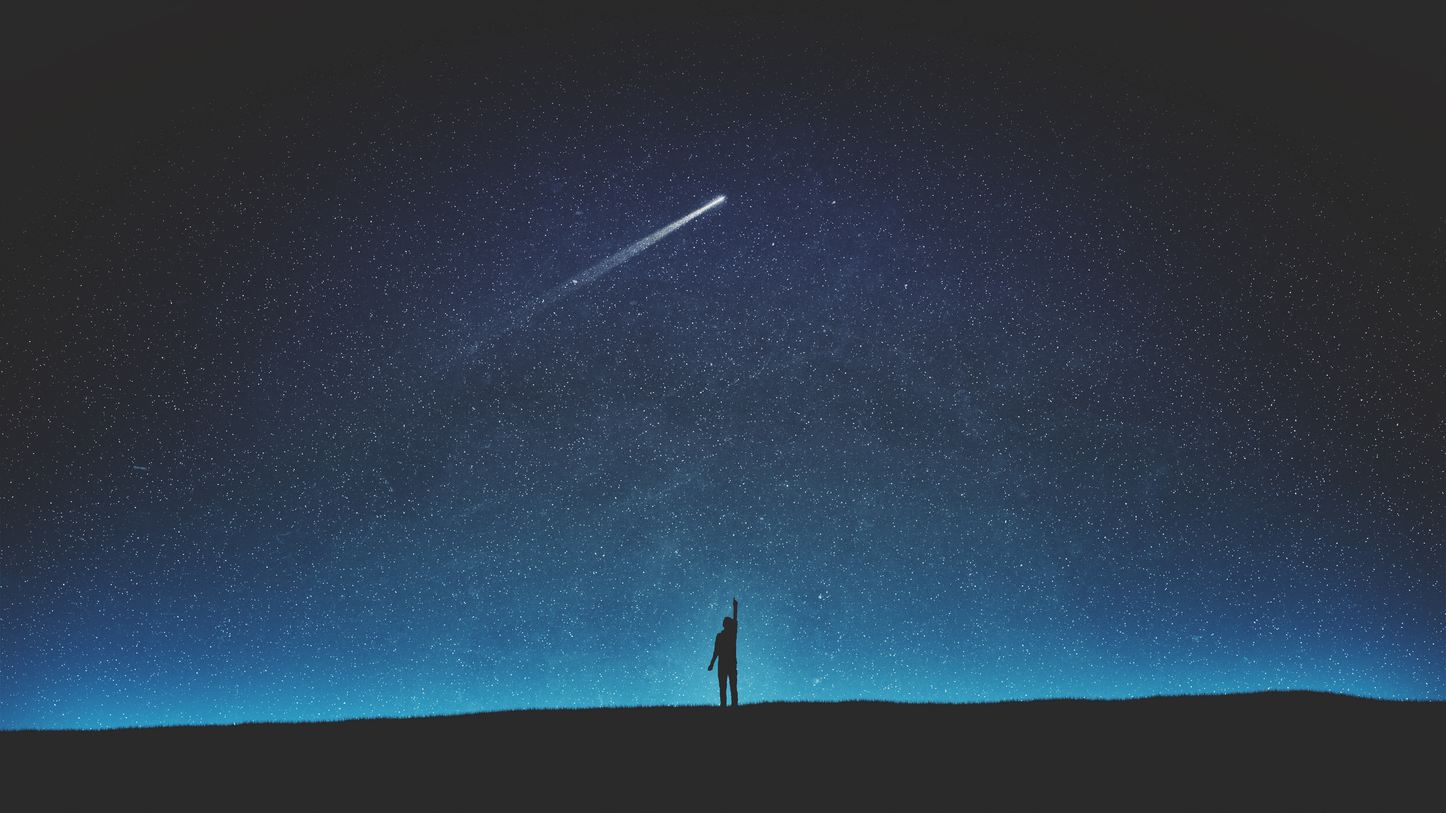
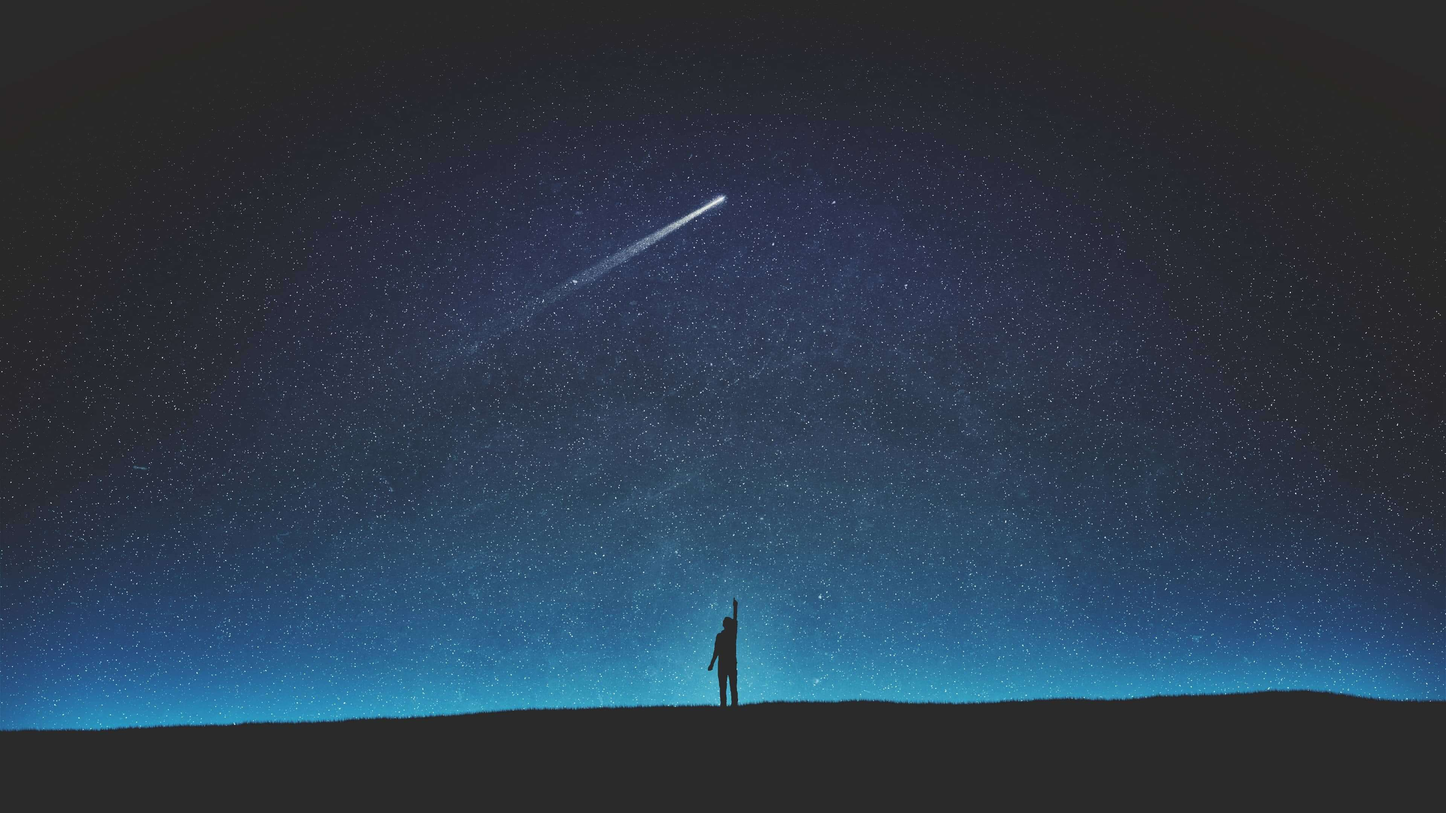
final updates

diff --git a/src/components/styles/AboutSection.css b/src/components/styles/AboutSection.css
@@ -57,8 +57,8 @@
 }
 
 .second-image {
-    margin-top: 4rem;
     border-radius: 15%;
+    margin-top: 4rem;
     width: 150px;
     height: 180px;
     margin-left: 3rem;
@@ -95,15 +95,14 @@
 }
 
 .dev-container {
-    margin-top: 2rem;
+    margin-top: 4rem;
     display: flex;
     flex-direction: column;
     align-items: center;
     justify-content: center;
-    max-width: 90vw;
+    max-width: 96vw;
     width: auto;
     height: auto;
-    
 }
 
 .fa-user-astronaut {
@@ -111,13 +110,13 @@
 }
 
 .dev-icons {
-    display: flex;
+    display: flex;    
     justify-content: space-between;
     align-items: center;
     max-width: 100%;
     width: auto;
     height: auto;
-    padding: 15px;
+    padding: 20px;
     margin-top: 1rem;
     border-radius: 20px;
     background: rgba(255, 255, 255, 0.3);
@@ -127,12 +126,12 @@
 .icons-dev-container{
     display: grid;
     grid-template-columns: repeat(8, auto);
-    grid-gap: 20px;    
+    grid-gap: 27px;
 }
 
 .icon-dev-into {
-    width: 40px;
-    height: 40px;
+    width: 50px;
+    height: 50px;
 }
 
 .icon-dev-into:hover {
@@ -150,6 +149,7 @@
 
 @media screen and (max-width: 960px){
     .first-image {
+        margin-top: 17px;
         border-radius: 15%;
         width: 100px;
         height: 130px;
@@ -182,7 +182,7 @@
         grid-gap: 20px;    
     }
 
-    .first-about-section {
+    .first-about-section {        
         max-width: 95vw;
         width: 92vw;
     }
@@ -193,7 +193,7 @@
     }
 
     .first-image {
-        margin-top: 2rem;
+        margin-top: 3rem;
         width: 60px;
         height: 80px;
         margin-right: 1rem;

diff --git a/public/index.html b/public/index.html
@@ -7,7 +7,7 @@
     <meta name="theme-color" content="#000000" />
     <meta
       name="description"
-      content="Web site created using create-react-app"
+      content="Jonatan Retama, Official web site"
     />
     <link rel="apple-touch-icon" href="%PUBLIC_URL%/logo192.png" />
     <!--
@@ -31,7 +31,7 @@
       work correctly both with client-side routing and a non-root public URL.
       Learn how to configure a non-root public URL by running `npm run build`.
     -->
-    <title>React App</title>
+    <title>Jonatan Retama</title>
   </head>
   <body>
     <noscript>You need to enable JavaScript to run this app.</noscript>

diff --git a/src/components/AboutSection.js b/src/components/AboutSection.js
@@ -15,7 +15,7 @@ function AboutSection() {
                     </h2>
                     <p className = "text-background">
                     I'm 21 years old, I love video games, developing back-end 
-                    & front-end software, listening to music all the time and lastly, 
+                    and front-end software, listening to music all the time and lastly, 
                     I love cars.
                     </p>
                 </div>

diff --git a/src/components/styles/About.css b/src/components/styles/About.css
@@ -13,7 +13,7 @@
     align-items: center;
     justify-content: center;
     font-size: 3rem;
-    background: url('/official-site/images/skyStarOrange.jpg') center center/cover no-repeat;
+    background: url('/official-site/images/mountainSnow.jpg') center center/cover no-repeat;
     background-position: center;
     background-size: cover;
     background-repeat: no-repeat;
